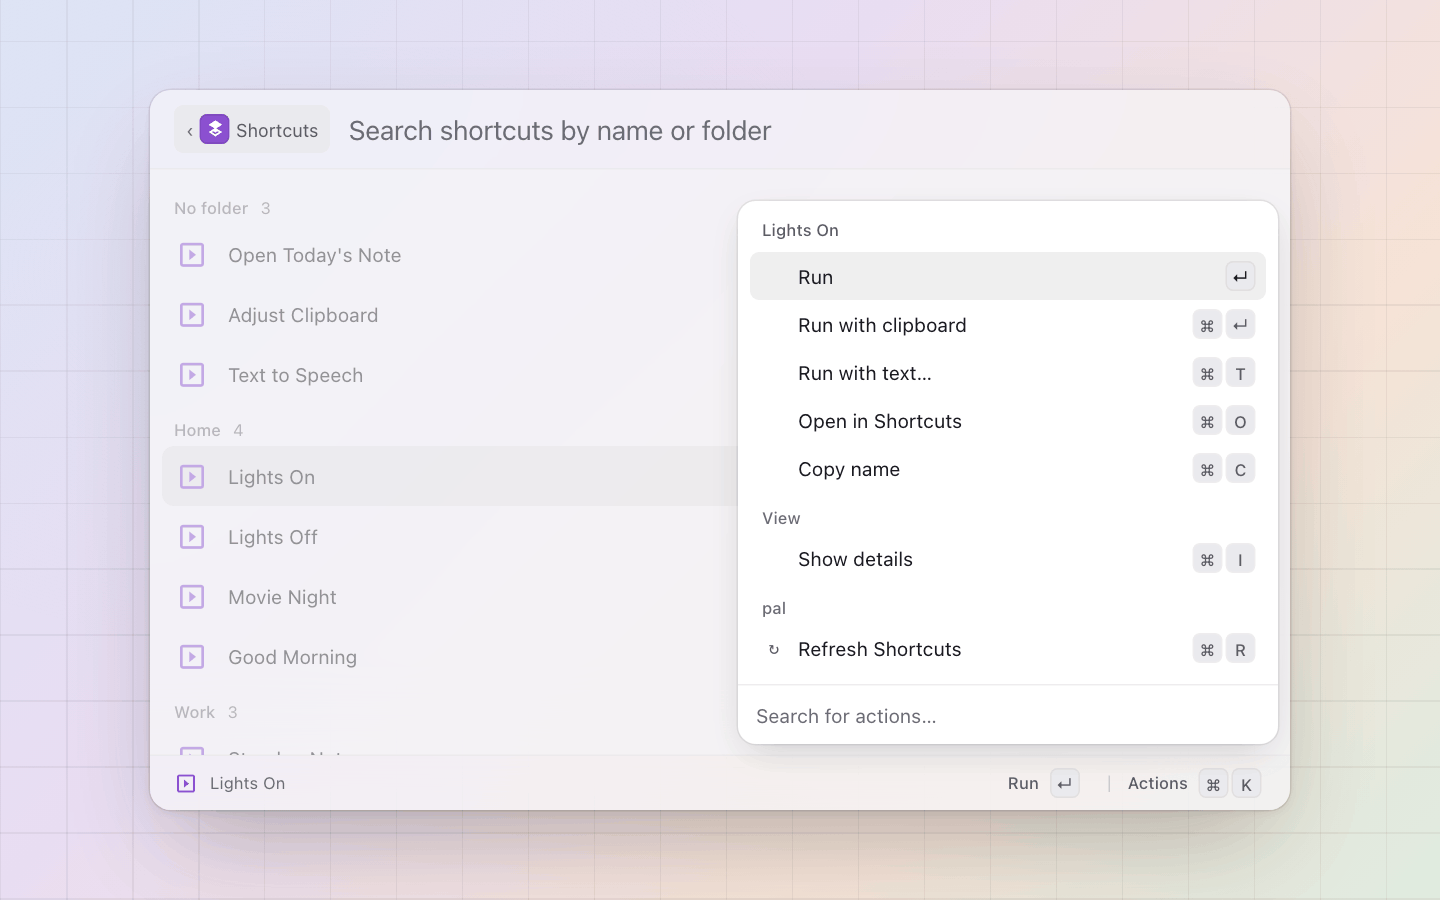
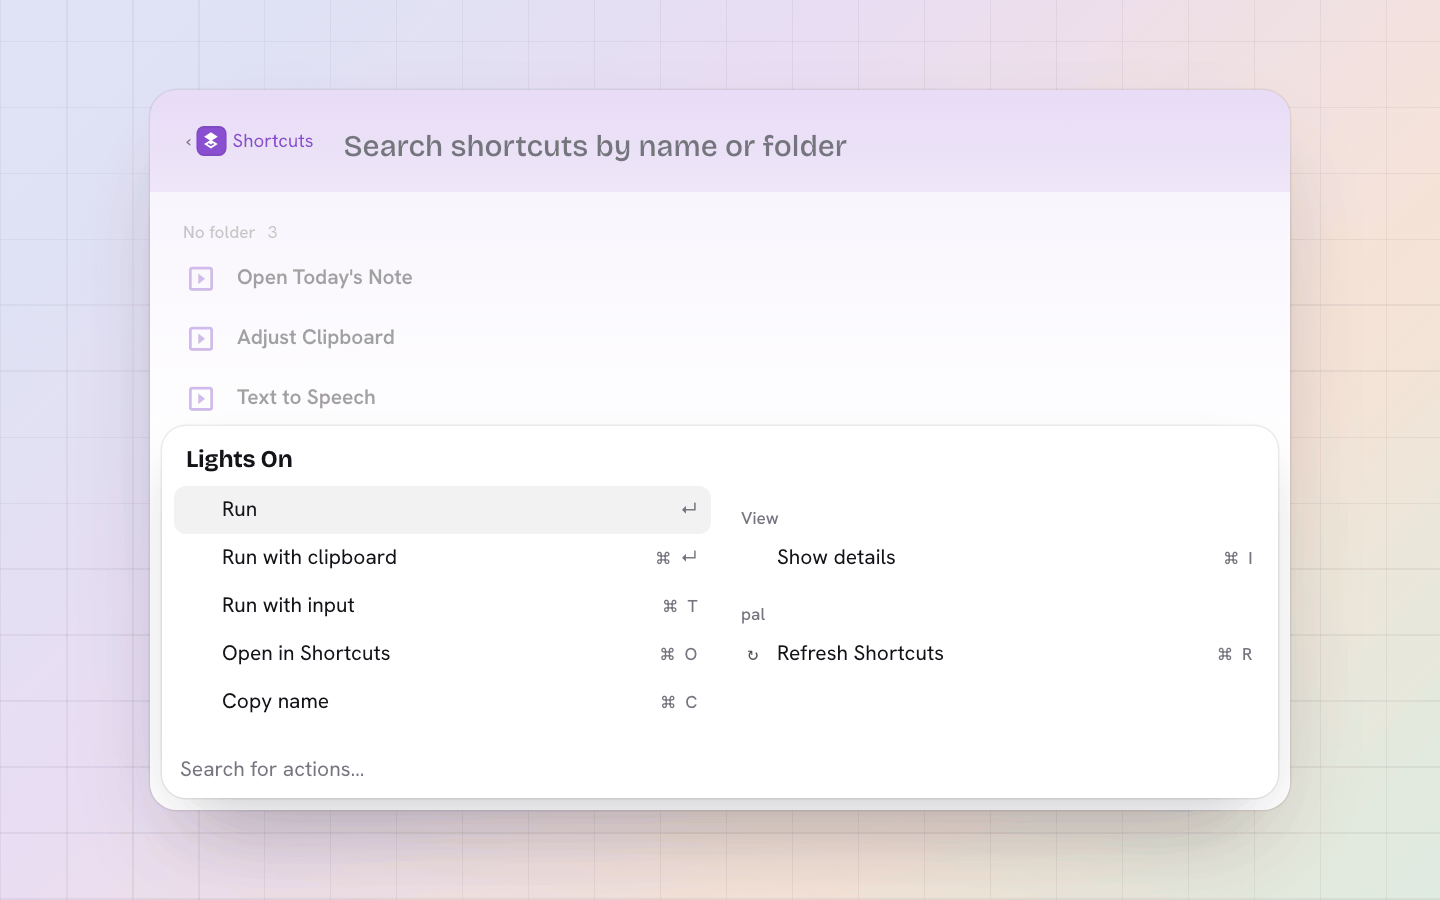
shortcuts: the detail leads with the folder and the name; Run with input named the same everywhere (the clipboard toast, the fixture, the docs); Ink screenshots

diff --git a/extensions/shortcuts/fixture.ts b/extensions/shortcuts/fixture.ts
@@ -1,7 +1,7 @@
 // Writes app/src/gallery/shots/shortcuts.json, the store screenshots'
 // fixture: rows shaped as `row()` in index.ts shapes them, from made-up
 // shortcuts in three folders (nothing is read from this Mac), plus the
-// Run with text form the shot opens. `bun run extensions/shortcuts/fixture.ts`,
+// Run with input form the shot opens. `bun run extensions/shortcuts/fixture.ts`,
 // then `node app/scripts/shots.mjs shortcuts`.
 import { pinClock, writeFixture } from "../../app/scripts/fixture-kit.ts";
 import manifest from "./pal.json" with { type: "json" };
@@ -11,7 +11,7 @@ pinClock();
 
 const ICON = "\u{f040b}";
 const ACTIONS = [
-  { id: "run", title: "Run" }, { id: "clipboard", title: "Run with clipboard" }, { id: "text", title: "Run with text…", shortcut: "cmd+t" },
+  { id: "run", title: "Run" }, { id: "clipboard", title: "Run with clipboard" }, { id: "text", title: "Run with input", shortcut: "cmd+t" },
   { id: "open", title: "Open in Shortcuts", shortcut: "cmd+o" }, { id: "copy", title: "Copy name", shortcut: "cmd+c" },
 ];
 const SHORTCUTS: [string, string | undefined][] = [
@@ -23,7 +23,7 @@ const SHORTCUTS: [string, string | undefined][] = [
 const identifier = (i: number) => `${(0x1a2b3c4d + i * 0x1111).toString(16).toUpperCase().padStart(8, "0")}-4F1E-4C3B-9A2D-${(0x5a6b7c8d9e0f + i).toString(16).toUpperCase()}`;
 const items = SHORTCUTS.map(([name, folder], i) => ({
   id: name, name, icon: ICON, section: folder || "No folder", keywords: folder ? [folder] : undefined,
-  detail: { metadata: [{ label: "Name", value: name }, ...(folder ? [{ label: "Folder", value: folder }] : []), { label: "Identifier", value: identifier(i) }] },
+  detail: { caption: folder ? `Shortcuts · ${folder}` : "Shortcuts", title: name, metadata: [{ label: "Identifier", value: identifier(i) }] },
   actions: ACTIONS,
 }));
 
@@ -40,7 +40,7 @@ const fixture = {
     "1-list": { palette: "shortcuts", keys: ["wait:300", "down*3"], caption: "Every Apple Shortcut on this Mac, grouped by its folder and searchable by name or folder" },
     "2-actions": { palette: "shortcuts", keys: ["wait:300", "down*3", "cmd+k"], caption: "Run it as it is, on the clipboard or on text you type, or open it in Shortcuts to edit" },
     "3-root": { keys: ["wait:300", "type:lights"], caption: "No need to open the palette: a shortcut's name typed at the root finds it" },
-    "4-form": { palette: "shortcuts", keys: ["wait:300", "down*7", "cmd+t", "wait:300", "type:Shipped the settings window; reviewing PRs after lunch"], caption: "Run with text: type what the shortcut receives, here the notes a Standup shortcut files" },
+    "4-form": { palette: "shortcuts", keys: ["wait:300", "down*7", "cmd+t", "wait:300", "type:Shipped the settings window; reviewing PRs after lunch"], caption: "Run with input: type what the shortcut receives, here the notes a Standup shortcut files" },
   },
 };
 writeFixture("shortcuts", fixture);

diff --git a/host/test/extensions/shortcuts.test.ts b/host/test/extensions/shortcuts.test.ts
@@ -72,7 +72,7 @@ describe("shortcuts", () => {
       ["Lights on", "Home"], ["Open App (11111111-2222-3333-4444-555555555555)", "Home"],
       ["Standup notes", "Work"],
     ]);
-    expect(items[2]).toMatchObject({ name: "Lights on", icon: "\u{f040b}", keywords: ["Home"], detail: { metadata: [{ label: "Name", value: "Lights on" }, { label: "Folder", value: "Home" }, { label: "Identifier", value: "A60321F9-5380-4AC8-BFF0-D736CE80DD10" }] } });
+    expect(items[2]).toMatchObject({ name: "Lights on", icon: "\u{f040b}", keywords: ["Home"], detail: { caption: "Shortcuts · Home", title: "Lights on", metadata: [{ label: "Identifier", value: "A60321F9-5380-4AC8-BFF0-D736CE80DD10" }] } });
     expect(items[0].keywords).toBeUndefined();
     expect(items[0].actions!.map((a) => [a.id, a.shortcut])).toEqual([["run", undefined], ["clipboard", undefined], ["text", "cmd+t"], ["open", "cmd+o"], ["copy", "cmd+c"]]);
     // Marked shortcuts run (bare or with the clipboard) and copy; the input and Open are one shortcut's.
@@ -106,7 +106,7 @@ describe("shortcuts", () => {
     expect(runs().pop()).toBe(`749DC7C9-9153-4FA6-8B1A-DE5755EB40D4\t${fixtures.clipboard[0].text}`);
     const h = await Host.bundled({ core: { "clipboard.list": () => [] } });
     await h.list("shortcuts", "shortcuts");
-    expect(await h.pick("shortcuts", "shortcuts", "Adjust Clipboard", "clipboard")).toEqual({ keep: true, toast: { title: "Nothing on the clipboard", message: "Copy some text first, or use Run with text", style: "failure" } });
+    expect(await h.pick("shortcuts", "shortcuts", "Adjust Clipboard", "clipboard")).toEqual({ keep: true, toast: { title: "Nothing on the clipboard", message: "Copy some text first, or use Run with input", style: "failure" } });
     h.kill();
   });
 

diff --git a/extensions/shortcuts/index.ts b/extensions/shortcuts/index.ts
@@ -78,7 +78,7 @@ function row(s: Shortcut): Item {
     icon: ICON,
     section: s.folder || "No folder",
     keywords: s.folder ? [s.folder] : undefined,
-    detail: { metadata: [{ label: "Name", value: s.name }, ...(s.folder ? [{ label: "Folder", value: s.folder }] : []), { label: "Identifier", value: s.identifier }] },
+    detail: { caption: s.folder ? `Shortcuts · ${s.folder}` : "Shortcuts", title: s.name, metadata: [{ label: "Identifier", value: s.identifier }] },
     args: INPUT_ARGS,
     actions: [RUN, RUN_CLIPBOARD, RUN_TEXT, OPEN, COPY_NAME],
   };
@@ -142,7 +142,7 @@ async function pick(id: string, action?: string, ctx?: Ctx): Promise<Effect | vo
     }
     case "clipboard": {
       const text = (await clipboard.list({ kind: "text", limit: 1 }))[0]?.text;
-      if (!text) return toast("Nothing on the clipboard", "Copy some text first, or use Run with text", "failure");
+      if (!text) return toast("Nothing on the clipboard", "Copy some text first, or use Run with input", "failure");
       for (const x of all) void run(x, text);
       return { hide: true };
     }

diff --git a/docs/palettes.md b/docs/palettes.md
@@ -3815,7 +3815,7 @@ Shortcuts app, `⌘C` copies its name. The listing is kept five minutes
 | --- | --- |
 | `enter` | Run the shortcut |
 | `cmd+enter` | Run it with the clipboard's text as input |
-| `cmd+t` | Run with text: a form for the input |
+| `cmd+t` | Run with input: the input typed in the bar (a form for a pick without it) |
 | `cmd+o` | Open it in Shortcuts |
 | `cmd+c` | Copy its name |
 
